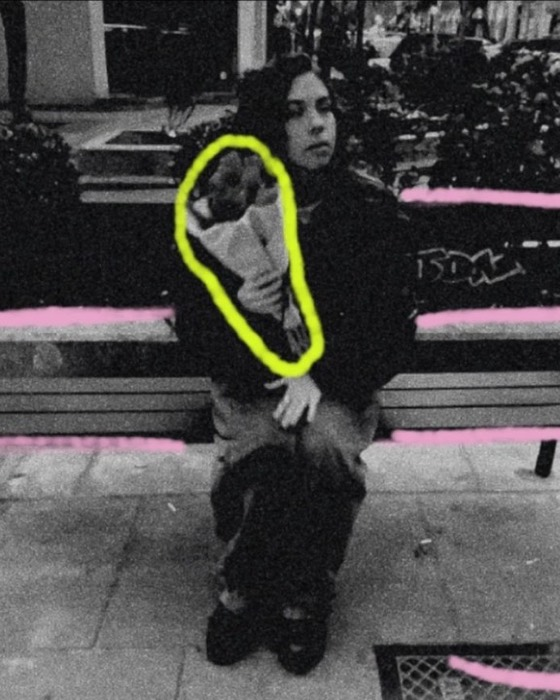
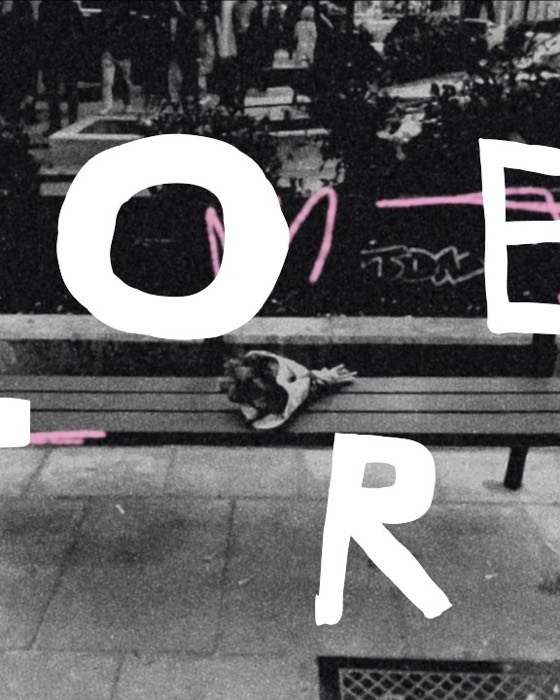
Flores: portada con el ramo en el banco y las letras

diff --git a/lab.html b/lab.html
@@ -22,7 +22,7 @@
   <link rel="preconnect" href="https://freight.cargo.site">
   <link rel="stylesheet" href="https://unpkg.com/lenis@1.1.13/dist/lenis.css">
   <!-- ?v= obliga al navegador a descargar la versión nueva cuando cambia (súbelo en cada cambio) -->
-  <link rel="stylesheet" href="css/style.css?v=2026111304">
+  <link rel="stylesheet" href="css/style.css?v=2026111305">
 
   <!-- Tema: claro por defecto, o el que se haya elegido antes -->
   <script>
@@ -56,15 +56,15 @@
   <!-- ============ BARRA SUPERIOR ============ -->
   <header class="topbar">
     <div class="topbar__side">
-      <a class="logo" href="index.html?v=2026111304" aria-label="Ayleeeeta, volver al inicio">
+      <a class="logo" href="index.html?v=2026111305" aria-label="Ayleeeeta, volver al inicio">
         <span>A</span><span>y</span><span>l</span><span class="e">e</span><span class="e e-extra">e</span><span class="e e-extra">e</span><span class="e e-extra">e</span><span>t</span><span>a</span>
       </a>
     </div>
     <nav class="topnav tiny" aria-label="Páginas">
-      <a href="index.html?v=2026111304">Proyectos</a>
-      <a href="sobre-mi.html?v=2026111304">Sobre mí</a>
-      <a href="lab.html?v=2026111304" class="is-active" aria-current="page">Archivo</a>
-      <a href="index.html?v=2026111304#contacto">Contacto</a>
+      <a href="index.html?v=2026111305">Proyectos</a>
+      <a href="sobre-mi.html?v=2026111305">Sobre mí</a>
+      <a href="lab.html?v=2026111305" class="is-active" aria-current="page">Archivo</a>
+      <a href="index.html?v=2026111305#contacto">Contacto</a>
     </nav>
     <div class="topbar__right tiny" data-cursor-hide>
       <button class="round-btn" id="sound-toggle" type="button" aria-label="Sonido (próximamente)" aria-pressed="false">
@@ -80,10 +80,10 @@
   <!-- ============ MENÚ EN PASTILLA (móvil) ============ -->
   <nav class="pill" aria-label="Páginas" style="--i: 2">
     <span class="pill__indicator" aria-hidden="true"></span>
-    <a href="index.html?v=2026111304" class="pill__link">Proyectos</a>
-    <a href="sobre-mi.html?v=2026111304" class="pill__link">Sobre mí</a>
-    <a href="lab.html?v=2026111304" class="pill__link is-active">Archivo</a>
-    <a href="index.html?v=2026111304#contacto" class="pill__link">Contacto</a>
+    <a href="index.html?v=2026111305" class="pill__link">Proyectos</a>
+    <a href="sobre-mi.html?v=2026111305" class="pill__link">Sobre mí</a>
+    <a href="lab.html?v=2026111305" class="pill__link is-active">Archivo</a>
+    <a href="index.html?v=2026111305#contacto" class="pill__link">Contacto</a>
   </nav>
 
   <main class="lab-page">
@@ -106,8 +106,8 @@
   <script src="https://cdn.jsdelivr.net/npm/gsap@3.13.0/dist/SplitText.min.js"></script>
   <script src="https://unpkg.com/lenis@1.1.13/dist/lenis.min.js"></script>
 
-  <script src="js/data.js?v=2026111304"></script>
-  <script src="js/lab-data.js?v=2026111304"></script>
-  <script src="js/main.js?v=2026111304"></script>
+  <script src="js/data.js?v=2026111305"></script>
+  <script src="js/lab-data.js?v=2026111305"></script>
+  <script src="js/main.js?v=2026111305"></script>
 </body>
 </html>

diff --git a/index.html b/index.html
@@ -22,7 +22,7 @@
   <link rel="preconnect" href="https://freight.cargo.site">
   <link rel="stylesheet" href="https://unpkg.com/lenis@1.1.13/dist/lenis.css">
   <!-- ?v= obliga al navegador a descargar la versión nueva cuando cambia (súbelo en cada cambio) -->
-  <link rel="stylesheet" href="css/style.css?v=2026111304">
+  <link rel="stylesheet" href="css/style.css?v=2026111305">
 
   <!-- Tema: claro por defecto, o el que se haya elegido antes -->
   <script>
@@ -56,14 +56,14 @@
   <!-- ============ BARRA SUPERIOR ============ -->
   <header class="topbar">
     <div class="topbar__side">
-      <a class="logo" href="index.html?v=2026111304" aria-label="Ayleeeeta, volver al inicio">
+      <a class="logo" href="index.html?v=2026111305" aria-label="Ayleeeeta, volver al inicio">
         <span>A</span><span>y</span><span>l</span><span class="e">e</span><span class="e e-extra">e</span><span class="e e-extra">e</span><span class="e e-extra">e</span><span>t</span><span>a</span>
       </a>
     </div>
     <nav class="topnav tiny" aria-label="Páginas">
-      <a href="index.html?v=2026111304" class="is-active" aria-current="page">Proyectos</a>
-      <a href="sobre-mi.html?v=2026111304">Sobre mí</a>
-      <a href="lab.html?v=2026111304">Archivo</a>
+      <a href="index.html?v=2026111305" class="is-active" aria-current="page">Proyectos</a>
+      <a href="sobre-mi.html?v=2026111305">Sobre mí</a>
+      <a href="lab.html?v=2026111305">Archivo</a>
       <a href="#contacto">Contacto</a>
     </nav>
     <div class="topbar__right tiny" data-cursor-hide>
@@ -80,9 +80,9 @@
   <!-- ============ MENÚ EN PASTILLA (móvil) ============ -->
   <nav class="pill" aria-label="Páginas" style="--i: 0">
     <span class="pill__indicator" aria-hidden="true"></span>
-    <a href="index.html?v=2026111304" class="pill__link is-active">Proyectos</a>
-    <a href="sobre-mi.html?v=2026111304" class="pill__link">Sobre mí</a>
-    <a href="lab.html?v=2026111304" class="pill__link">Archivo</a>
+    <a href="index.html?v=2026111305" class="pill__link is-active">Proyectos</a>
+    <a href="sobre-mi.html?v=2026111305" class="pill__link">Sobre mí</a>
+    <a href="lab.html?v=2026111305" class="pill__link">Archivo</a>
     <a href="#contacto" class="pill__link">Contacto</a>
   </nav>
 
@@ -190,7 +190,7 @@
   <script src="https://unpkg.com/lenis@1.1.13/dist/lenis.min.js"></script>
   <script src="https://cdnjs.cloudflare.com/ajax/libs/matter-js/0.19.0/matter.min.js"></script>
 
-  <script src="js/data.js?v=2026111304"></script>
-  <script src="js/main.js?v=2026111304"></script>
+  <script src="js/data.js?v=2026111305"></script>
+  <script src="js/main.js?v=2026111305"></script>
 </body>
 </html>

diff --git a/sobre-mi.html b/sobre-mi.html
@@ -22,7 +22,7 @@
   <link rel="preconnect" href="https://freight.cargo.site">
   <link rel="stylesheet" href="https://unpkg.com/lenis@1.1.13/dist/lenis.css">
   <!-- ?v= obliga al navegador a descargar la versión nueva cuando cambia (súbelo en cada cambio) -->
-  <link rel="stylesheet" href="css/style.css?v=2026111304">
+  <link rel="stylesheet" href="css/style.css?v=2026111305">
 
   <!-- Tema: claro por defecto, o el que se haya elegido antes -->
   <script>
@@ -56,14 +56,14 @@
   <!-- ============ BARRA SUPERIOR ============ -->
   <header class="topbar">
     <div class="topbar__side">
-      <a class="logo" href="index.html?v=2026111304" aria-label="Ayleeeeta, volver al inicio">
+      <a class="logo" href="index.html?v=2026111305" aria-label="Ayleeeeta, volver al inicio">
         <span>A</span><span>y</span><span>l</span><span class="e">e</span><span class="e e-extra">e</span><span class="e e-extra">e</span><span class="e e-extra">e</span><span>t</span><span>a</span>
       </a>
     </div>
     <nav class="topnav tiny" aria-label="Páginas">
-      <a href="index.html?v=2026111304">Proyectos</a>
-      <a href="sobre-mi.html?v=2026111304" class="is-active" aria-current="page">Sobre mí</a>
-      <a href="lab.html?v=2026111304">Archivo</a>
+      <a href="index.html?v=2026111305">Proyectos</a>
+      <a href="sobre-mi.html?v=2026111305" class="is-active" aria-current="page">Sobre mí</a>
+      <a href="lab.html?v=2026111305">Archivo</a>
       <a href="#contacto">Contacto</a>
     </nav>
     <div class="topbar__right tiny" data-cursor-hide>
@@ -80,9 +80,9 @@
   <!-- ============ MENÚ EN PASTILLA (móvil) ============ -->
   <nav class="pill" aria-label="Páginas" style="--i: 1">
     <span class="pill__indicator" aria-hidden="true"></span>
-    <a href="index.html?v=2026111304" class="pill__link">Proyectos</a>
-    <a href="sobre-mi.html?v=2026111304" class="pill__link is-active">Sobre mí</a>
-    <a href="lab.html?v=2026111304" class="pill__link">Archivo</a>
+    <a href="index.html?v=2026111305" class="pill__link">Proyectos</a>
+    <a href="sobre-mi.html?v=2026111305" class="pill__link is-active">Sobre mí</a>
+    <a href="lab.html?v=2026111305" class="pill__link">Archivo</a>
     <a href="#contacto" class="pill__link">Contacto</a>
   </nav>
 
@@ -151,7 +151,7 @@
   <script src="https://cdn.jsdelivr.net/npm/gsap@3.13.0/dist/SplitText.min.js"></script>
   <script src="https://unpkg.com/lenis@1.1.13/dist/lenis.min.js"></script>
 
-  <script src="js/data.js?v=2026111304"></script>
-  <script src="js/main.js?v=2026111304"></script>
+  <script src="js/data.js?v=2026111305"></script>
+  <script src="js/main.js?v=2026111305"></script>
 </body>
 </html>

diff --git a/README.md b/README.md
@@ -66,7 +66,7 @@ El botón "Descargar CV" de Sobre mí descarga `assets/cv/CV_AylaCano.pdf`. Se g
 
 ## Si no ves los cambios online
 
-El navegador guarda copias de la web. Los archivos y los enlaces entre páginas llevan `?v=2026111304`: cada vez que subas cambios, busca y reemplaza ese número por uno nuevo en las 3 páginas (`index.html`, `lab.html`, `sobre-mi.html`) y todo el mundo verá la versión nueva. Para comprobarlo tú, recarga con **Cmd + Shift + R**.
+El navegador guarda copias de la web. Los archivos y los enlaces entre páginas llevan `?v=2026111305`: cada vez que subas cambios, busca y reemplaza ese número por uno nuevo en las 3 páginas (`index.html`, `lab.html`, `sobre-mi.html`) y todo el mundo verá la versión nueva. Para comprobarlo tú, recarga con **Cmd + Shift + R**.
 
 ## Publicar en GitHub Pages
 
